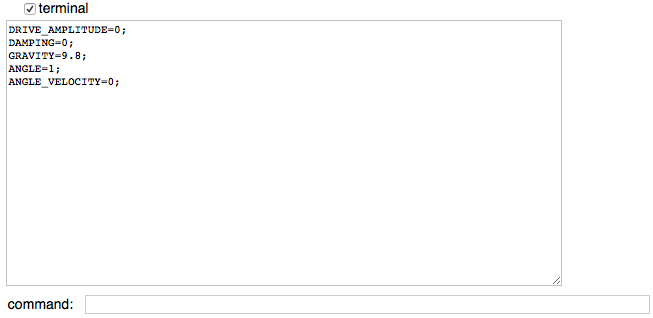
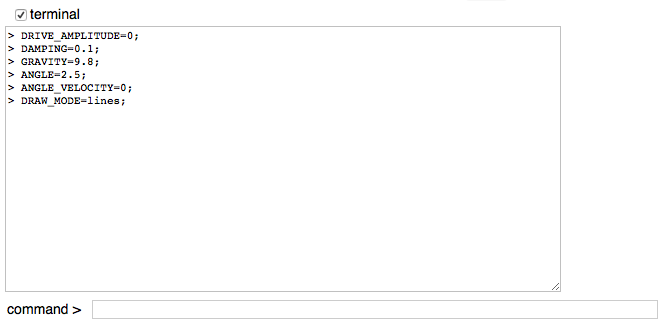
change how Terminal input & output are displayed
Commands are shown with '> ' preceding them in Terminal output area.

In the Terminal output text area we show the commands and the result of
the commands. Previously the results were wrapped in JavaScript comment
symbols (// for single line result, /* */ for multi line results). The
idea was that you could copy the entire output and use it as a script.
But this winds up being confusing, partly because it is a non-standard
way to show command line results. Now we have a more standard way to
distinguish commands: we precede commands with '> '. Results are
printed without modification.

Terminal.commands() now detects commands in the text output area by
looking for '> ' at the start of a line.

Terminal.remember() now takes an array of strings as an argumet (which
is what Terminal.commands() returns).

Changed the label shown on the Terminal input area to "command >"
instead of "command :" to emphasize that the ">" symbol is associated
with commands.

Changed region(s): [[0.0, 0.0, 0.8576, 0.3396], [0.0, 0.8774, 1.0, 0.9906]]

diff --git a/src/lab/util/Terminal.js b/src/lab/util/Terminal.js
@@ -36,9 +36,6 @@ After the command is executed the result is converted to text and displayed in t
 output text field. The output is not displayed if the result is `undefined` or the
 command ends with a semi-colon.
 
-The output is wrapped with Javascript comment symbols. For multi-line results we use
-slash-star comment style; for single-line results we use slash-slash comment style.
-
 See also [Customizing myPhysicsLab Software](Customizing.html).
 
 
@@ -145,12 +142,12 @@ The Result Variable
 The result of the last Terminal command is stored in a variable named `result`. Here is
 an example Terminal session:
 
-    2+2
-    // 4
-    result*2
-    // 8
-    result*2
-    // 16
+    > 2+2
+    4
+    > result*2
+    8
+    > result*2
+    16
 
 Note that {@link #eval} has an argument called `output` which if set to `false`
 prevents `result` from being updated.
@@ -162,12 +159,13 @@ Scripts are processed by splitting them into smaller scripts delimited by a semi
 Only semi-colons at the 'top level' of the script have this effect. Semi-colons within
 brackets or inside of a quoted string are ignored for command splitting.
 
-An unusual result of this policy is that **a semi-colon will end a comment**.  Here
-we enter what looks like a single comment, but it is interpreted as two separate
-scripts:
+An unusual result of this policy is that **a semi-colon will end a comment**. Here we
+enter `// this is a comment; 2+2` which looks like a single comment, but it is
+interpreted as two separate scripts.
 
-    // this is a comment; 2+2
-    // 4
+    > // this is a comment;
+    > 2+2
+    4
 
 
 
@@ -222,10 +220,10 @@ Most applications call {@parseURLorRecall} when starting, therefore whenever the
 loads, the remembered script will be executed (unless there is a URL script which would
 take priority).
 
-If no script is explicitly supplied to `remember()`, then the current contents of the
-Terminal output window are saved. A user can edit the contents of the Terminal output
-window to change what is remembered. Comments are removed when saving the Terminal
-output.
+If no script is explicitly supplied to `remember()`, then the commands in the Terminal
+output window are saved, as returned by the method {@link #commands}. A user can edit
+the contents of the Terminal output window to change what is remembered. Commands are
+any line in the output text area that start with '> '.
 
 The {@link #remember} command saves a script specific for the current page and browser.
 If you load the page under a different browser, or for a different locale (which is a
@@ -238,10 +236,10 @@ Strict mode prevents adding global variables when using the JavaScript `eval` co
 To allow making variables that persist between commands, Terminal provides an object
 named `z` where properties can be added:
 
-    z.a = 1
-    // 1
-    z.a
-    // 1
+    > z.a = 1
+    1
+    > z.a
+    1
 
 This `z` object is a property of Terminal; `z` is initially an object with no
 properties. We define a 'short name' regular expression so that referring to `z` is
@@ -525,25 +523,22 @@ Terminal.prototype.checkVars = function(names) {
   });
 };
 
-/** Returns commands in current Terminal output as array of strings, minus comments,
-* for use with {@link #remember}.
-* Each command is also trimmed of leading or trailing whitespace.
+/** Returns commands in current Terminal output text area, as array of strings,
+* for use with {@link #remember}. Commands are any line in the output text area that
+* start with '> '. Each command is also trimmed of leading or trailing whitespace.
 * @return {!Array<string>}  array of command strings in current Terminal output
 */
 Terminal.prototype.commands = function() {
-  // Remove comments with syntax /* comment */
-  // Explanation of this regexp:  [\s\S] matches any character including newline
-  // [\s\S]*? is a non-greedy match.
-  // We also match trailing spaces and trailing newline, if any.
-  var t = this.term_output_.value.replace(/\/\*[\s\S]*?\*\/(\s*)\n?/g, '');
+  var t = this.term_output_.value;
   t = t.split('\n');
   // remove leading and trailing whitespace on each command
   t = goog.array.map(t, function(e) { return e.trim(); });
-  // filter out empty commands, comments, and the 'terminal.remember()' command
+  // filter out non-commands, and the 'terminal.remember()' command
   t = goog.array.filter(t, function(/** string */e) {
-    return e.length>0 && e.substr(0,2)!= '//'
-        && !e.match(/^(terminal|this).remember\(\s*\);?$/);
+    return e.length>2 && e.substr(0,2)== '> '
+        && !e.match(/^> (terminal|this).(remember|commands)\(\s*\);?$/);
     });
+  t = goog.array.map(t, function(e) { return e.substr(2); });
   return t;
 };
 
@@ -608,11 +603,12 @@ Terminal.prototype.eval = function(command, opt_output, opt_userInput) {
     // The afterEvalFn_ can call eval() when an ExpressionVariable is evaluated during
     // modifyObjects.  This gives one level of recursion. Since output==false the result
     // is preserved.  Further recursion is not possible because you can't call eval()
-    // from a Terminal sript.
+    // from a Terminal script.
     goog.asserts.assert(this.evalCalls_ <= 2);
     var saveResult = this.result;
     this.result = undefined;
   }
+  var prefix = '> ';
   try {
     this.vetBrackets(command);
     // split the command into pieces at each semi-colon, evaluate one piece at a time
@@ -640,33 +636,25 @@ Terminal.prototype.eval = function(command, opt_output, opt_userInput) {
             // the parser was successful
             this.result = parseResult;
             if (output) {
-              this.println(script);
+              this.println(prefix + script);
             }
             break execute_script;
           }
         }
         // print before evaluating & expanding so that it is clear what caused an error
         if (output && !this.verbose_) {
-          this.println(script);
+          this.println(prefix + script);
         }
         script = this.expand(script);
         if (output && this.verbose_) {
-          this.println(script);
+          this.println(prefix + script);
         }
         this.result = this.myEval(script);
       }
     }
     // don't show results when command ends with semi-colon, or undefined result
     if (output && goog.isDef(this.result) && command.slice(-1) != ';') {
-      var resultString = String(this.result);
-      // wrap results in comment symbols
-      if (resultString.indexOf('\n') < 0) {
-        // single line result
-        this.println('// '+resultString);
-      } else {
-        // multi line result
-        this.println('/* '+resultString+' */');
-      }
+      this.println(String(this.result));
     }
     if (output && goog.isDef(this.afterEvalFn_)) {
       this.afterEvalFn_();
@@ -674,7 +662,7 @@ Terminal.prototype.eval = function(command, opt_output, opt_userInput) {
   } catch (ex) {
     if (output) {
       this.result = undefined;
-      this.println('// '+ex);
+      this.println(ex);
     } else {
       this.result = saveResult;
     }
@@ -831,8 +819,7 @@ Terminal.prototype.inputCallback = function(evt) {
 * @private
 */
 Terminal.prototype.myEval = function(script) {
-  // avoid eval when script is a comment
-  if (!UtilityCore.ADVANCED && script.substr(0,2) != '//') {
+  if (!UtilityCore.ADVANCED) {
     return eval('"use strict"; '+script);
   } else {
     return undefined;
@@ -937,15 +924,20 @@ Terminal.prototype.recall = function(opt_execute) {
   this.recalling = false;
 };
 
-/** Remember the given script to execute when this page is
-loaded in future. Note that each browser has a separate local storage, so this
-will only be remembered for the current browser and page.
-If no script is provided then the current Terminal output is used.
-* @param {string=} opt_command the script to remember
+/** Remember the given script to execute when this page is loaded in future. Note that
+each browser has a separate local storage, so this will only be remembered for the
+current browser and page.
+
+If no script is provided then the set of Terminal commands in the output text area are
+stored, as returned by {@link #commands}.
+* @param {string|!Array<string>|undefined} opt_command the script(s) to remember
 * @return {undefined}
 */
 Terminal.prototype.remember = function(opt_command) {
-  var command = goog.isDef(opt_command) ? opt_command : this.commands().join('\n');
+  var command = goog.isDef(opt_command) ? opt_command : this.commands();
+  if (goog.isArray(command)) {
+    command = command.join('\n');
+  }
   var k = this.pageKey();
   // store the script under the current file name
   var localStore = window.localStorage;

diff --git a/src/lab/util/test/Terminal_test.js b/src/lab/util/test/Terminal_test.js
@@ -34,7 +34,7 @@ var testTerminal1 = function() {
   var t = window.terminal;
   Terminal.stdRegex(t);
   assertEquals(4, t.eval('2+2'));
-  assertEquals('2+2\n// 4\n', output_elem.value);
+  assertEquals('> 2+2\n4\n', output_elem.value);
   assertEquals('myphysicslab.lab.util.DoubleRect', t.expand('DoubleRect'));
   // test that expand() ignores quoted strings containing escaped quotes
   var txt = 'replace this DoubleRect "but not this DoubleRect " and  "also not this \\\"DoubleRect\\\""';
@@ -47,7 +47,7 @@ var testTerminal1 = function() {
   t.eval('z.a = 1;');
   output_elem.value = '';
   t.eval('z.a');
-  assertEquals('z.a\n// 1\n', output_elem.value);
+  assertEquals('> z.a\n1\n', output_elem.value);
   // Test that semi-colons inside strings or braces don't break up the command
   assertTrue(t.eval('UtilityCore.toName("foo;")=="FOO;"'));
   assertEquals(6, t.eval('{1;2;3+3}'));

diff --git a/src/lab/util/EasyScriptParser.js b/src/lab/util/EasyScriptParser.js
@@ -604,8 +604,9 @@ EasyScriptParser.prototype.update =  function() {
   this.initialVolatile_ = this.namesAndValues(true).split(';');
 };
 
-/** Returns the set of Parameter names that can be set by this EasyScriptParser, and their
-* current values. Each Parameter name is preceded by the name of its Subject and a dot.
+/** Returns the set of Parameter names that can be set by this EasyScriptParser, and
+* their current values. Each Parameter name is preceded by the name of its Subject and
+* a dot.
 * @return {string} the set of Parameter names that can be
 *    set by this EasyScriptParser and their current values
 */

diff --git a/src/macros_vert.html b/src/macros_vert.html
@@ -27,7 +27,7 @@
   -->\
   <form id="form_terminal" onsubmit="return false;" style="margin: 0px;">\
     <textarea id="term_output" cols=80 rows=20 wrap="soft"></textarea>\
-    <label>command:<input type="text" id="term_input" size="80"></label>\
+    <label>command &gt;<input type="text" id="term_input" size="80"></label>\
   </form>\
 </div>
 

diff --git a/src/macros_tab.html b/src/macros_tab.html
@@ -63,7 +63,7 @@
   </label>\
   <div id="div_terminal#APP_NUM">\
     <textarea id="term_output#APP_NUM" cols=80 rows=20 wrap="soft"></textarea> <br>\
-    <label style="display:inline-block">command:\
+    <label style="display:inline-block">command &gt;\
       <input type="text" id="term_input#APP_NUM" size="80">\
     </label>\
   </div>\

diff --git a/src/docs/Customizing.md b/src/docs/Customizing.md
@@ -79,8 +79,8 @@ the above EasyScript. See the section below
 To find other possible parameter names, type `values` into Terminal which shows all the
 names that can be set and their current values:
 
-    values
-    /* APP.SHOW_ENERGY=false;
+    > values
+    APP.SHOW_ENERGY=false;
     APP.SHOW_CLOCK=false;
     APP.PAN_ZOOM=false;
     SIM.LENGTH=1;
@@ -113,10 +113,6 @@ names that can be set and their current values:
     SIM_VARS.KINETIC_ENERGY=1.164100961126811e-13;
     SIM_VARS.POTENTIAL_ENERGY=-3.999999999989643;
     SIM_VARS.TOTAL_ENERGY=-3.9999999999895266;
-    */
-
-Output from commands are surrounded with JavaScript comment symbols `/*` and `*/`. Or
-preceded by JavaScript comment symbol `//` for single line output.
 
 Consider the first value shown:
 
@@ -147,12 +143,8 @@ Here are some ways to use EasyScript:
 + In Terminal the `script` command prints the simplest EasyScript that replicates the
     current simulation state. This script can be copied and used later.
 
-        script
-        // DAMPING=0.1;GRAVITY=5;RUNNING=false;ANGLE=-2.5;ANGLE_VELOCITY=-4;
-
-    The `//` at the start indicates that this was the output of the command, it is
-    a JavaScript comment symbol so don't include that when copying the script for
-    later use.
+        > script
+        DAMPING=0.1;GRAVITY=5;RUNNING=false;ANGLE=-2.5;ANGLE_VELOCITY=-4;
 
     When the simulation is paused you will see `RUNNING=false`. Change the value
     to `RUNNING=true` to have the simulation start playing when the EasyScript
@@ -166,8 +158,8 @@ Here are some ways to use EasyScript:
     The URL can be saved in a text file or sent to someone else to view the customized
     simulation. Here is an example:
 
-        url
-        // http://www.myphysicslab.com/PendulumApp-en.html?DAMPING=0.1;GRAVITY=5;
+        > url
+        http://www.myphysicslab.com/PendulumApp-en.html?DAMPING=0.1;GRAVITY=5;
         RUNNING=true;ANGLE=-2.5;ANGLE_VELOCITY=-4;
 
 EasyScript can be mixed with JavaScript, see [Customizing with JavaScript][] below.
@@ -355,17 +347,16 @@ visible by **clicking the "Terminal" checkbox**, as seen in this screenshot:
 
 The Terminal class provides an **input text area** for the user to enter JavaScript or
 EasyScript scripts, and an **output text area** showing the results of the scripts
-that are entered.
+that are entered. In the output text area, commands are preceded by '> '.
 
 
 
 ## Terminal Utilities
 
 When you type a command into Terminal, it is executed and the result is displayed in
-the Terminal output text area. The result is converted to text and wrapped with
-JavaScript comment symbols. If the command ends with a semi-colon then the printing of
-the result is suppressed. Multiple commands separated by semi-colons can be given in
-one line.
+the Terminal output text area. If the command ends with a semi-colon then the printing
+of the result is suppressed. Multiple commands separated by semi-colons or new lines
+can be given in one line.
 
 Some useful utilities available in Terminal:
 
